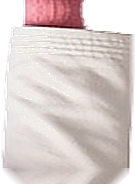
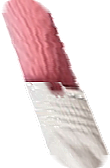
Ipo v4: diagonal bind-pose sleeves, pink forearms, attached fall
The first v4 sleeves were correctly rotated but drawn as wide vertical
tubes, so on a Y-down skeleton they read as flat shoulder slabs and the
white forearms vanished against the gi. Stamp T-pose sleeve, cuff, and
pink fur along the same inward-to-outward diagonal Gavin uses, narrow
the tube to shoulder width, and keep fall/getup attached by overlap.

diff --git a/fighter-art/rig/tools/build_ipo_v4.py b/fighter-art/rig/tools/build_ipo_v4.py
@@ -260,7 +260,192 @@ def drop_pink_gi(im):
     return inpaint_pink_tab(im)
 
 
+def shade_inner_edge(im, side='R', strength=0.16, width_frac=0.35):
+    """Darken the torso-facing edge of a sleeve so it separates from the white gi."""
+    a = np.array(im).astype(np.float32)
+    h, w = a.shape[:2]
+    xs = np.arange(w, dtype=np.float32)
+    if side == 'R':
+        # inner edge is the right side of the PNG
+        t = np.clip((xs - w * (1.0 - width_frac)) / max(1, w * width_frac), 0, 1)
+    else:
+        t = np.clip((w * width_frac - xs) / max(1, w * width_frac), 0, 1)
+    # smooth
+    t = t * t
+    mul = 1.0 - strength * t
+    a[..., 0] *= mul
+    a[..., 1] *= mul
+    a[..., 2] *= mul
+    a[..., :3] = np.clip(a[..., :3], 0, 255)
+    return Image.fromarray(a.astype(np.uint8), 'RGBA')
+
+
+def taper_rows(im, top_w=1.0, bot_w=0.80, min_half=0.38):
+    """Scale each row's opaque span toward a tapered tube. Does not fill."""
+    a = np.array(im).astype(np.float32)
+    h, w = a.shape[:2]
+    xs = np.arange(w, dtype=np.float32)
+    cx = (w - 1) / 2.0
+    for y in range(h):
+        t = y / max(1, h - 1)
+        frac = top_w + (bot_w - top_w) * t
+        half = w * 0.5 * frac
+        # also keep a little end rounding via the existing alpha
+        m = np.clip((half - np.abs(xs - cx)) / max(1.0, 2.0), 0, 1)
+        a[y, ..., 3] *= m
+    return Image.fromarray(np.clip(a, 0, 255).astype(np.uint8), 'RGBA')
+
+
+def extend_rows(im, target_h, prefer='mid'):
+    """Stretch or clone-extend a short tube to target_h, keeping width."""
+    if im.height >= target_h:
+        return im.resize((im.width, target_h), Image.LANCZOS)
+    a = np.array(im)
+    h, w = a.shape[:2]
+    # resize first to a mid height, then pad with cloned mid-fabric if still short
+    mid = a[max(0, h // 4): min(h, 3 * h // 4)]
+    if mid.shape[0] < 4:
+        mid = a
+    out = np.zeros((target_h, w, 4), np.uint8)
+    # place original, resized, in the center-ish and fill ends with mid clones
+    scaled = np.array(im.resize((w, target_h), Image.LANCZOS))
+    return Image.fromarray(scaled, 'RGBA')
+
+
+def compose_forearm(pink, cuff, target_w, target_h, cuff_frac=0.38):
+    """Pink fur tube from wrist (top) down to a white gi cuff at the elbow (bottom)."""
+    pw = scale_to_solid_width(pink, target_w)
+    # pink occupies the top (1-cuff_frac) of the canvas
+    pink_h = max(8, int(target_h * (1.0 - cuff_frac)))
+    cuff_h = target_h - pink_h
+    pw = extend_rows(pw, pink_h)
+    # fit cuff
+    cw = scale_to_solid_width(cuff, target_w)
+    cw = extend_rows(cw, max(cuff_h + 16, cw.height if cw.height > 4 else cuff_h + 16))
+    if cw.height > cuff_h + 16:
+        cw = cw.resize((cw.width, cuff_h + 16), Image.LANCZOS)
+    canvas = Image.new('RGBA', (target_w, target_h), (0, 0, 0, 0))
+    # center widths
+    def paste_c(dst, src, y):
+        x = (dst.width - src.width) // 2
+        dst.alpha_composite(src, (x, y))
+    paste_c(canvas, pw, 0)
+    # cuff overlaps the pink by ~16px so the opening is soft
+    paste_c(canvas, cw, pink_h - 16)
+    return canvas
+
+
+
+def stamp_along_path(src, canvas_w, canvas_h, top_fx, bot_fx, top_w, bot_w):
+    """Stamp a vertical source tube along a diagonal path in a wider canvas.
+
+    The shared skeleton keeps bone +Y pointing down the screen even when the
+    child joint sits inward or outward, so bind-pose sleeves have to be
+    *drawn* on a diagonal (Gavin's upperarm/forearm PNGs work this way).
+    top_fx/bot_fx are the path-center x as a fraction of canvas width.
+    """
+    src_a = np.array(src.convert('RGBA'))
+    sh, sw = src_a.shape[:2]
+    # precompute each source row's opaque span
+    spans = []
+    for y in range(sh):
+        xs = np.where(src_a[y, :, 3] > 20)[0]
+        if len(xs) >= 2:
+            spans.append((int(xs[0]), int(xs[-1]) + 1))
+        elif len(xs) == 1:
+            spans.append((int(xs[0]), int(xs[0]) + 1))
+        else:
+            spans.append(None)
+    # fill missing spans from nearest
+    last = next((s for s in spans if s), (0, sw))
+    for i, s in enumerate(spans):
+        if s is None:
+            spans[i] = last
+        else:
+            last = s
+    out = np.zeros((canvas_h, canvas_w, 4), np.float32)
+    wgt = np.zeros((canvas_h, canvas_w), np.float32)
+    for y in range(canvas_h):
+        t = y / max(1, canvas_h - 1)
+        cx = (top_fx + (bot_fx - top_fx) * t) * (canvas_w - 1)
+        tw = top_w + (bot_w - top_w) * t
+        sy = min(sh - 1, int(round(t * (sh - 1))))
+        x0, x1 = spans[sy]
+        row = src_a[sy, x0:x1]
+        rw = max(1, row.shape[0])
+        # scale this source span to the tube width
+        dst_w = max(3, int(round(tw)))
+        if rw != dst_w:
+            # resize one row: (1, rw, 4) -> (1, dst_w, 4)
+            tile = Image.fromarray(row[None, ...], 'RGBA').resize((dst_w, 1), Image.Resampling.LANCZOS)
+            row = np.array(tile)[0]
+        # place centered at cx, with a soft 2px edge
+        x_left = cx - (dst_w - 1) / 2.0
+        for i in range(dst_w):
+            xf = x_left + i
+            x_i = int(np.floor(xf))
+            frac = xf - x_i
+            pix = row[i].astype(np.float32)
+            # soft side feather
+            edge = min(i, dst_w - 1 - i)
+            feather = 1.0 if edge >= 2 else (edge + 1) / 3.0
+            pix = pix.copy()
+            pix[3] *= feather
+            for dx, wf in ((0, 1.0 - frac), (1, frac)):
+                xx = x_i + dx
+                if 0 <= xx < canvas_w and wf > 0.001 and pix[3] > 0:
+                    out[y, xx] += pix * wf
+                    wgt[y, xx] += wf
+    # normalize overlapping writes (the bilinear x split)
+    nz = wgt > 1.0
+    out[nz, :3] /= wgt[nz, None]
+    out[nz, 3] = np.clip(out[nz, 3] / np.maximum(wgt[nz], 1e-6), 0, 255)
+    out[~nz, 3] = np.clip(out[~nz, 3], 0, 255)
+    out[..., :3] = np.clip(out[..., :3], 0, 255)
+    # soft-round the path ends so the tube is not a hard rectangle
+    end = max(6, int(canvas_h * 0.08))
+    for i in range(end):
+        fade = (i / end) ** 0.6
+        # only shrink alpha near the sides of the first/last rows; keep the
+        # center of the cap opaque so joints stay covered
+        for y, keep in ((i, fade), (canvas_h - 1 - i, fade)):
+            xs = np.where(out[y, :, 3] > 10)[0]
+            if len(xs) < 4:
+                continue
+            cx = 0.5 * (xs[0] + xs[-1])
+            half = 0.5 * (xs[-1] - xs[0] + 1) * (0.55 + 0.45 * keep)
+            dist = np.abs(np.arange(canvas_w) - cx)
+            out[y, :, 3] *= np.clip((half - dist) / max(2.0, half * 0.3) , 0, 1)
+    return Image.fromarray(np.clip(out, 0, 255).astype(np.uint8), 'RGBA')
+
+
+def shade_inward(im, side='R', strength=0.18, width_px=28):
+    """Darken the torso-facing side of a (possibly diagonal) tube, per row."""
+    a = np.array(im).astype(np.float32)
+    h, w = a.shape[:2]
+    for y in range(h):
+        xs = np.where(a[y, :, 3] > 20)[0]
+        if len(xs) < 4:
+            continue
+        x0, x1 = int(xs[0]), int(xs[-1])
+        span = max(1, x1 - x0)
+        ww = min(width_px, span * 0.55)
+        if side == 'R':
+            # inward is the right of this row
+            t = np.clip((np.arange(w) - (x1 - ww)) / max(1, ww), 0, 1)
+        else:
+            t = np.clip(((x0 + ww) - np.arange(w)) / max(1, ww), 0, 1)
+        t = t * t
+        mul = 1.0 - strength * t
+        a[y, :, 0] *= mul
+        a[y, :, 1] *= mul
+        a[y, :, 2] *= mul
+    a[..., :3] = np.clip(a[..., :3], 0, 255)
+    return Image.fromarray(a.astype(np.uint8), 'RGBA')
+
+
 def cut_tpose(tpose, box, rot, kind):
+
 
     x0, y0, x1, y1 = box
     tile = tpose[y0:y1, x0:x1].copy()
@@ -288,9 +473,9 @@ def main():
         print(f'{n}: restored v3 overlay')
 
     skin['about'] = (
-        'Ipo v4: body from ipo-full-body-v2; arms cut from ipo-arms-out T-pose '
-        '(clean sleeve tube, rotated to hanging/guard bone orientation); '
-        'full ears; Muse fists color-matched to T-pose fur; rounded joint caps.'
+        'Ipo v4: body from ipo-full-body-v2; T-pose sleeves rotated and stamped on '
+        'a bind-pose diagonal (shoulder inward, elbow out); pink furry forearm '
+        '+ cuff from elbow to wrist along the same diagonal; Muse fists; full ears.'
     )
     skin['fighter'] = 'ipo'
     skin['skeleton'] = 'bvh-punchout-front-v1'
@@ -340,19 +525,21 @@ def main():
     FUR_TGT = head_a[m, :3].mean(0) if m.any() else np.array([206, 138, 145])
     print('GI_TGT', GI_TGT, 'FUR_TGT', FUR_TGT, 'HAND_TGT', HAND_TGT)
 
-    # ---------- ARMS from T-pose (clean sleeve tubes only) ----------
-    # L/R = screen side. Tight boxes stay on the ear-free sleeve tube.
-    # Upperarm is short in source (~30-34px along the bone before the ear);
-    # we scale uniformly then cap_opaque to bone length + overlap.
+    # ---------- ARMS from T-pose ----------
+    # Bind pose: upperarm hangs down (shoulder at TOP of PNG, elbow at BOTTOM).
+    # Forearm goes UP from the elbow to the fist, so the PNG has the wrist at
+    # the TOP and the elbow at the BOTTOM (fy ~ 0.86).
+    # Previous v4 sleeves were ~148px wide filled rectangles; on a white gi they
+    # read as horizontal shoulder slabs and hid the forearms. Target thickness
+    # matches the torso shoulder (~Gavin median 91px upperarm, 69px forearm).
     specs = {
-        # hands include a sliver of cuff for wrist overlap (used only as color ref;
-        # shipped fists are Muse, color-shifted)
-        'hand_L':     dict(box=(312, 190, 430, 256), rot=-90, kind='hand'),
-        'forearm_L':  dict(box=(408, 190, 522, 260), rot=-90, kind='fore'),
-        'upperarm_L': dict(box=(500, 196, 528, 256), rot=90,  kind='upper'),
-        'hand_R':     dict(box=(846, 190, 968, 256), rot=90,  kind='hand'),
-        'forearm_R':  dict(box=(754, 190, 868, 260), rot=90,  kind='fore'),
-        'upperarm_R': dict(box=(752, 196, 778, 256), rot=-90, kind='upper'),
+        # pink wrist + palm (not the split fingers) -> furry forearm
+        'pink_L':     dict(box=(385, 200, 426, 238), rot=-90, kind='pink'),
+        'cuff_L':     dict(box=(416, 196, 460, 256), rot=-90, kind='cuff'),
+        'upperarm_L': dict(box=(498, 196, 532, 256), rot=90,  kind='upper'),
+        'pink_R':     dict(box=(850, 200, 891, 238), rot=90,  kind='pink'),
+        'cuff_R':     dict(box=(816, 196, 860, 256), rot=90,  kind='cuff'),
+        'upperarm_R': dict(box=(746, 196, 780, 256), rot=-90, kind='upper'),
     }
 
     cuts = {}
@@ -362,55 +549,50 @@ def main():
         im.save(f'/tmp/cut_{name}.png')
         print(f'cut {name} {im.size} fill={(np.array(im)[...,3]>40).mean():.2f}')
 
-    for side in ('L',):
-        # Upperarm: match sleeve width to body, stretch the short clean-tube
-        # texture along the bone (source is only ~30px long before the ear),
-        # then add short opaque caps for shoulder/elbow overlap.
-        # Bone length ~177; fy=0.10; target h ~270 => 243px along the bone.
-        ua = cuts[f'upperarm_{side}']
-        ua = scale_to_solid_width(ua, 150)
-        ua = ua.resize((ua.size[0], 200), Image.LANCZOS)
-        ua = unsharp(sharpen(ua, 1.25), 1.1, 120, 2)
-        ua = drop_pink_gi(ua)
-        ua = fill_side_holes(ua)
-        ua = color_shift(ua, GI_TGT, 0.60, is_gi)
-        ua = cap_opaque(ua, 32, 'top', min_frac=0.40)
-        ua = cap_opaque(ua, 36, 'bot', min_frac=0.40)
-        ua = tube_mask(ua, side_feather=0.06, end_round=0.10, min_half=0.38)
-        ax = 0.56 if side == 'L' else 0.44
-        put(f'upperarm_{side}', ua, ax, 0.10)
+    # The skeleton is Y-down even when the child sits inward, so the art must
+    # be painted on a diagonal like Gavin: upperarm shoulder inward (top-right
+    # for L) to elbow outward (bottom-left); forearm elbow outward (bottom-left)
+    # to wrist inward (top-right). Measured idle bone offsets:
+    #   elbow in upperarm_L space ~ (-56, 169); fist in forearm_L space ~ (63, -114).
+    UA_W, UA_H = 150, 252
+    UA_TOP_FX, UA_BOT_FX, UA_FY = 0.75, 0.38, 0.14
+    FA_SRC_W, FA_SRC_H = 74, 148
+    FA_W, FA_H = 130, 168
+    FA_TOP_FX, FA_BOT_FX, FA_FY = 0.72, 0.24, 0.86
 
-        # Forearm: bone length ~130-138. Must NOT overshoot the fist (v3
-        # "pink posts" were a length/orientation bug). Non-uniform: width
-        # matches the sleeve, height fits the bone + modest overlap.
-        # fy=0.86, h=184 => 158px wrist-to-elbow (20-28px past the bone).
-        fa = cuts[f'forearm_{side}']
-        fa = fa.resize((138, 160), Image.LANCZOS)
-        fa = unsharp(sharpen(fa, 1.25), 1.1, 120, 2)
-        fa = fill_side_holes(fa, min_a=180, end_margin=0.16)
-        fa = color_shift(fa, GI_TGT, 0.55, is_gi)
-        fa = color_shift(fa, FUR_TGT, 0.35, is_fur)
-        fa = cap_opaque(fa, 10, 'top', min_frac=0.40)
-        fa = cap_opaque(fa, 14, 'bot', min_frac=0.40)
-        fa = tube_mask(fa, side_feather=0.05, end_round=0.09, min_half=0.38)
-        put(f'forearm_{side}', fa, 0.50, 0.86)
+    # Build L from the clean T-pose cuts, then mirror for R (R sleeve mattes poorly).
+    ua_src = cuts['upperarm_L']
+    ua_src = drop_pink_gi(ua_src)
+    ua_src = scale_to_solid_width(ua_src, 66)
+    ua_src = extend_rows(ua_src, 200)
+    ua_src = fill_side_holes(ua_src)
+    ua_src = color_shift(ua_src, GI_TGT, 0.50, is_gi)
+    ua = stamp_along_path(ua_src, UA_W, UA_H, UA_TOP_FX, UA_BOT_FX, top_w=66, bot_w=54)
+    ua = unsharp(sharpen(ua, 1.2), 1.1, 120, 2)
+    ua = shade_inward(ua, side='R', strength=0.18, width_px=28)
+    put('upperarm_L', ua, UA_TOP_FX, UA_FY)
 
-    # Mirror the clean L sleeve for R (R T-pose sleeve is near-white and mattes poorly).
-    put('upperarm_R', Image.open(PARTS / 'upperarm_L.png').transpose(Image.FLIP_LEFT_RIGHT), 0.44, 0.10)
-    put('forearm_R', Image.open(PARTS / 'forearm_L.png').transpose(Image.FLIP_LEFT_RIGHT), 0.50, 0.86)
+    pink = cuts['pink_L']
+    cuff = drop_pink_gi(cuts['cuff_L'])
+    fa_src = compose_forearm(pink, cuff, FA_SRC_W, FA_SRC_H, cuff_frac=0.40)
+    fa_src = color_shift(fa_src, FUR_TGT, 0.40, is_fur)
+    fa_src = color_shift(fa_src, GI_TGT, 0.45, is_gi)
+    fa_src = fill_side_holes(fa_src, min_a=180, end_margin=0.08)
+    fa = stamp_along_path(fa_src, FA_W, FA_H, FA_TOP_FX, FA_BOT_FX, top_w=52, bot_w=62)
+    fa = unsharp(sharpen(fa, 1.15), 1.0, 110, 2)
+    put('forearm_L', fa, FA_BOT_FX, FA_FY)
 
-    for side in ('L', 'R'):
-        # Muse true-scale fists, color-shifted toward T-pose / head fur
+    # Muse fists color-matched; fy near the wrist so the pink tube tucks under.
+    for side, fxx in (('L', 0.45), ('R', 0.55)):
         hd = Image.open(V3BODY / f'fist_{side}.png').convert('RGBA')
-        # blend of T-pose hand and head fur
         tgt = 0.55 * np.array(HAND_TGT) + 0.45 * np.array(FUR_TGT)
         hd = color_shift(hd, tgt, 0.55, is_fur)
-        # keep v3 size and placement (110x120, fy≈0.70)
-        v3f = V3SKIN['parts'][f'fist_{side}']
-        # v3 rel y=-84, h=120 => fy=84/120=0.70; rel x=-55, w=110 => fx=0.50
-        fx = abs(v3f['x']) / v3f['w'] if v3f['w'] else 0.50
-        fy = abs(v3f['y']) / v3f['h'] if v3f['h'] else 0.70
-        put(f'fist_{side}', hd, fx, fy)
+        put(f'fist_{side}', hd, fxx, 0.84)
+
+    put('upperarm_R', Image.open(PARTS / 'upperarm_L.png').transpose(Image.FLIP_LEFT_RIGHT),
+        1.0 - UA_TOP_FX, UA_FY)
+    put('forearm_R', Image.open(PARTS / 'forearm_L.png').transpose(Image.FLIP_LEFT_RIGHT),
+        1.0 - FA_BOT_FX, FA_FY)
 
     # ---------- Legs: restore v3 art, drop belt tabs, light corner rounding ----------
     for side in ('L', 'R'):
